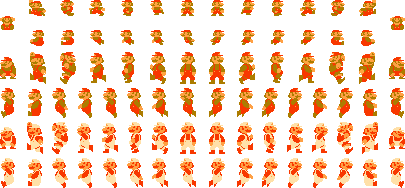
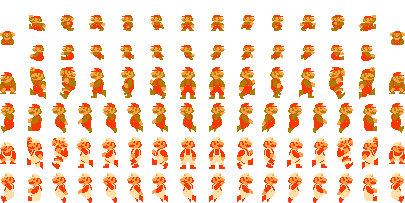
Fixed damage transition sprites, and made moving koopa shells kill goombas

diff --git a/Sprint0/Commands/CDamageEnemy.cs b/Sprint0/Commands/CDamageEnemy.cs
@@ -4,20 +4,37 @@ using System;
 using System.Collections.Generic;
 using System.Text;
 using Microsoft.Xna.Framework;
+using System.Diagnostics;
 
 namespace Sprint0.Commands
 {
     class CDamageEnemy : ICommand
     {
-        private Enemy enemy;
-        private Mario mario;
-        public CDamageEnemy(Enemy enemyRefernce, Mario mario, Rectangle rec)
+        private IEnemy enemy;
+        private ICollidable collided;
+        public CDamageEnemy(IEnemy enemyRefernce, ICollidable collided, Rectangle rec)
         {
+            this.collided = collided;
             enemy = enemyRefernce;
         }
         public void Execute()
         {
-            enemy.TakeDamage();
+
+            if(collided is IEnemy)
+            {
+                IEnemy collidedEnemy = (IEnemy)collided;
+
+                //moving koopa shells hurt enemies
+                if (collidedEnemy.GetStateID() == "KoopaShell" && enemy.GetVelocity() != new Vector2(0, 0))
+                {
+                    
+                    enemy.TakeDamage();
+                }
+            }
+            else if(collided is IMario)
+            {
+                enemy.TakeDamage();
+            }
         }
     }
 }

diff --git a/Sprint0/Player/State Machines/MarioHealthStateMachine.cs b/Sprint0/Player/State Machines/MarioHealthStateMachine.cs
@@ -2,6 +2,7 @@
 using System.Collections.Generic;
 using System.Diagnostics;
 using System.Text;
+using Microsoft.Xna.Framework;
 using Sprint0.Timers;
 using Sprint0.UtilityClasses;
 /*
@@ -112,6 +113,8 @@ namespace Sprint0
         {
             if (currentHealth == MarioHealth.half)
             {
+                // move player up since we are transforming into big mario
+                mario.Position = new Vector2(mario.Position.X, mario.Position.Y - 16);
                 previousHealth = currentHealth;
                 currentHealth = MarioHealth.full;
             }
